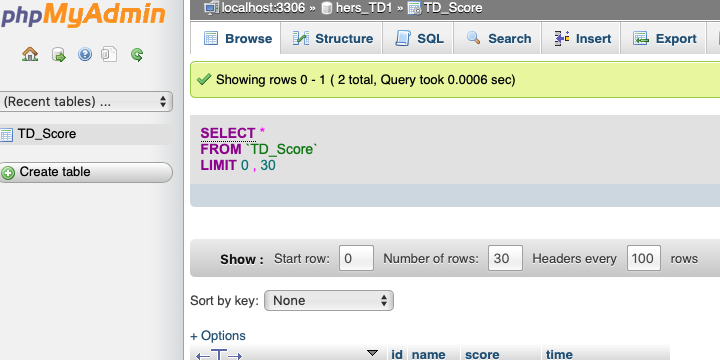
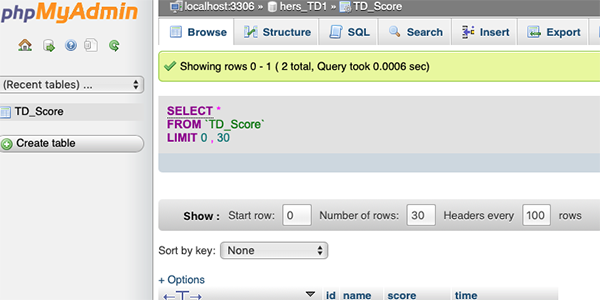
Rescaled images. Added images to SQL

diff --git a/Les 5 Databases/readme.md b/Les 5 Databases/readme.md
@@ -53,10 +53,15 @@ Elke table heeft een unieke ID nodig. Met A_I zet je deze op AUTO_INCREMENT, dat
 ## Stap 2: Vullen van de array
 ### Stap 2.1: Vullen met een SQL Query
 Een SQL Query is eigenlijk de basistaal van databases. Je kan er in een database alles mee doen. Wij gaan enkel INSERT gebruiken. 
+
+Open de table die je net hebt aangemaakt, en klik op de knop SQL.
+![alt text](https://raw.githubusercontent.com/MediacollegeAmsterdam/GPR2-2019/Les-5/Les%205%20Databases/images/sql/09.22.18.png?raw=true)
+
+![alt text](https://github.com/MediacollegeAmsterdam/GPR2-2019/blob/Les-5/Les%205%20Databases/images/%2011.40.32.png?raw=true)
 ```SQL
 INSERT INTO TD_Score(`name`, `score`) VALUES ('SILVAN', 23756756723);
 ```
-Voer deze query uit. Als het gelukt is, heb je nu items toe gevoegd aan de Array.
+Voer deze query uit. Als het gelukt is, heb je nu items toe gevoegd aan de Array. Controlleer goed op spellingsfouten en of 'id' en 'time' goed ingesteld zijn.
 
 ### Stap 2.2
 Je wilt niet dat de speler op z'n eigen (lokale) computer de database kan aanpassen. Je wilt altijd dat alle aanpassingen aan de databae uitgevoerd worden aan de kant van de server waar de database zelf op staat. 
